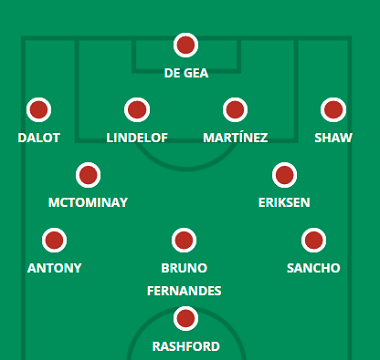
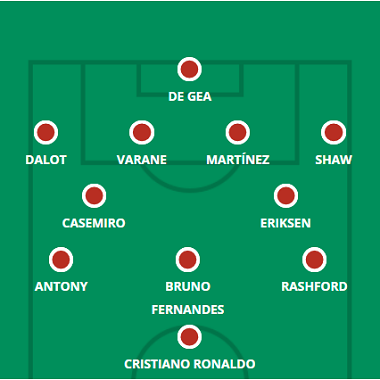
city, arsenal e united

Changed region(s): [[0.0, 0.0917, 1.0, 1.0], [0.4053, 0.6111, 0.55, 0.7639]]

diff --git a/city.html b/city.html
@@ -68,7 +68,7 @@
             <hgroup>
                 <h1> Provável Escalação</h1>
                 <h2 class="direita"> por FabioVascão </h2>
-                <h3 class="direita"> Atualizado em 07/Outubro/2022 </h3>
+                <h3 class="direita"> Atualizado em 14/Outubro/2022 </h3>
             </hgroup>
     
             <h2 class="time"> <img src="_fotos/_logos/logocity.png" />Manchester City</h2>
@@ -77,7 +77,7 @@
                     <img src="_fotos/_dinamicas/city.png" />
                 </figure>
             </aside>
-                <div class="escalacao"><h2 class="titulo">Ultimas Notícias</h2> <h4><p>Kalvin Phillips (lesão no ombro), Kyle Walker (lesão na virilha) e John Stones (lesão na coxa) ainda estão afastados, mas Rodri (lesão na perna) voltou à equipe da rodada da Liga dos Campeões no meio da semana, então pode fazer sua primeira aparição no City desde meados de setembro contra Southampton neste fim de semana. Pep Guardiola não está subestimando os Saints em dificuldades depois que eles dificultaram a vida do City em casa e fora em 2021/22, e isso foi ressaltado na seleção de quarta-feira para o jogo de Copenhague, como Kevin De Bruyne, Phil Foden e Manuel Akanji receberam respiros completos e Erling Haaland foi fisgado ao intervalo na goleada por 5-0 sobre os dinamarqueses. O técnico do City pode optar por segurar jogadores relativamente marginais como Sergio Gomez, Riyad Mahrez e Julian Alvarez para o jogo de volta na Dinamarca na próxima terça-feira, já que a qualificação para as oitavas de final da Liga dos Campeões está praticamente garantida, enquanto ele também pode querer acompanhar O impulso de Jack Grealish, dado que o ex-Villa às vezes difamado está em uma veia relativamente rica de forma no momento. Bernardo Silva e Ilkay Gundogan somaram quatro partidas consecutivas por clube e seleção nas últimas duas semanas, com o alemão durando 90 minutos no meio da semana e potencialmente abrindo caminho aqui se Rodri estiver apto o suficiente para ser titular. Na parte de trás, uma segunda partida em 72 horas para Aymeric Laporte parece improvável após sua recente longa dispensa, então serão dois de três de Akanji, Ruben Dias e Nathan Ake no meio-campo. Dada a capacidade de Ake de jogar como lateral-esquerdo e a possível implantação de Akanji como um lateral-direito híbrido / zagueiro-centro direito, no entanto, não seria uma surpresa ver todos os três rolhas obterem o aceno no Etihad.</p></h4><br>
+                <div class="escalacao"><h2 class="titulo">Ultimas Notícias</h2> <h4><p>Kalvin Phillips (lesão no ombro), Kyle Walker (lesão na virilha) e John Stones (lesão na coxa) perderão a viagem a Liverpool, com Stones ainda a 7-10 dias de distância e os outros dois ausentes por mais tempo. Não parece haver muitos dilemas para Pep Guardiola indo para esta partida contra os eternos rivais do City pelo título, com os quatro zagueiros que você vê aqui muito propensos a aparecer (Aymeric Laporte ainda está trabalhando de volta para o jogo completo), mas um pouco pouco de incerteza sobre se é Manuel Akanji ou Nathan Ake encarregado do dever de zagueiro em Merseyside. Com Phil Foden, Bernardo Silva e Erling Haaland todos "prontos" após os descansos do meio da semana, e Kevin De Bruyne e Rodri quase certezas de estarem envolvidos em um jogo dessa magnitude, a única questão que resta é quem se junta a eles na frente seis. Bernardo Silva pode ser mais amplo para permitir que Ilkay Gundogan entre no meio-campo, mas essa não é uma tática que Guardiola empregou contra os antigos inimigos do City em mais de três anos, então o em forma Jack Grealish pode ser o aceno no flanco esquerdo. É claro que Riyad Mahrez é outra opção, mas só foi titular em um dos últimos sete confrontos do campeonato com as tropas de Jurgen Klopp.</p></h4><br>
                     <h4><strong>Jogadores fora da próxima partida:</strong> Phillips, Stones e Walker</h4><br><br>
                     <h4><strong>Jogadores dúvidas:</strong> </h4>
                 </div> 

diff --git a/escalacoes.html b/escalacoes.html
@@ -68,7 +68,7 @@
             <hgroup>
                 <h1> Provável Escalação</h1>
                 <h2 class="direita"> por FabioVascão </h2>
-                <h3 class="direita"> Atualizado em 07/Outubro/2022 </h3>
+                <h3 class="direita"> Atualizado em 14/Outubro/2022 </h3>
             </hgroup>
     
             <h2 class="time"> <img src="_fotos/_logos/logoarsenal.png" />Arsenal</h2>
@@ -77,9 +77,9 @@
                     <img src="_fotos/_dinamicas/arsenal.png" />
                 </figure>
             </aside>
-                <div class="escalacao"><h2 class="titulo">Ultimas Notícias</h2> <h4><p>Emile Smith Rowe (lesão na virilha) e Mohamed Elneny (lesão na coxa) continuam de fora antes da visita ao Liverpool, mas o Arsenal não tem outras lesões confirmadas, sendo Cedric Soares o mais recente jogador a retornar à forma física esta semana. Mikel Arteta ofereceu o seu habitual golpe direto na sua pressão pré-jogo e foi pouco útil nas notícias da equipe, apenas dizendo que saberá mais sobre a situação da lesão do Arsenal após o último treino. Oleksandr Zinchenko pode ser uma preocupação, no entanto: exceto o par lesionado acima mencionado, ele foi o único nome de destaque que estava ausente da equipe da rodada na Liga Europa na quinta-feira. O jornalista do Arsenal, Charles Watts, também informou que o internacional ucraniano havia perdido o treino no início da semana e com Kieran Tierney substituído relativamente cedo na noite de quinta-feira, talvez com o objetivo de preservá-lo para este fim de semana, não se surpreenda ao ver o escocês em campo lateral-esquerdo contra o Liverpool. Além disso, podemos esperar ver o mesmo onze inicial que apareceu no derby do norte de Londres entrar em campo novamente neste fim de semana. Dez dos 11 titulares da Rodada 9 tiveram menos de 60 minutos ou descansaram juntos para a vitória no meio da semana sobre Bodo/Glimt (Gabriel Magalhães foi a exceção), com jogadores marginais como Fabio Vieira, Eddie Nketiah, Rob Holding e Takehiro Tomiyasu todos devorando em vez disso, os minutos da Liga Europa.</p></h4><br>
+                <div class="escalacao"><h2 class="titulo">Ultimas Notícias</h2> <h4><p>Emile Smith Rowe (lesão na virilha) e Mohamed Elneny (lesão na coxa) permanecem de fora antes da viagem a Leeds, enquanto mais notícias são aguardadas sobre Oleksandr Zinchenko depois que ele perdeu a vitória sobre o Liverpool com um problema na panturrilha, o internacional ucraniano não foi visto em treinamento desde então. Enquanto isso, Gabriel Jesus foi omitido da equipe da Liga Europa na noite de quinta-feira, embora as palavras de Mikel Arteta ("Sentimos que, com tudo o que ele passou nas últimas semanas, seria melhor ele ficar em casa") sugerir que não há questão de aptidão. Qualquer lesão não declarada ou uma recuperação de Zinchenko à parte, podemos esperar ver o mesmo onze inicial que jogou contra o Liverpool entrar em campo novamente neste fim de semana. Dez dos 11 titulares da 10 Rodada tiveram menos de 70 minutos ou descansaram completamente para a vitória no meio da semana sobre Bodo/Glimt (William Saliba foi a exceção), com jogadores marginais como Matt Turner, Albert Sambi Lokonga, Fabio Vieira, Eddie Nketiah, Reiss Nelson e Rob Holding, em vez disso, ficaram com as eliminatórias estendidas da Europa League. O fato de Kieran Tierney ter durado 90 minutos, enquanto Takehiro Tomiyasu foi suplente, também talvez sugira que este último mantenha seu lugar na lateral-esquerda no caso de Zinchenko ainda ficar de fora.</p></h4><br>
                     <h4><strong>Jogadores fora da próxima partida:</strong> Elneny e Smith-Rowe </h4><br><br>
-                    <h4><strong>Jogadores dúvidas:</strong> </h4>
+                    <h4><strong>Jogadores dúvidas:</strong> Zinchenko</h4>
                 </div> 
         </header>
         </article>

diff --git a/united.html b/united.html
@@ -68,7 +68,7 @@
             <hgroup>
                 <h1> Provável Escalação</h1>
                 <h2 class="direita"> por FabioVascão </h2>
-                <h3 class="direita"> Atualizado em 07/Outubro/2022 </h3>
+                <h3 class="direita"> Atualizado em 14/Outubro/2022 </h3>
             </hgroup>
     
             <h2 class="time"> <img src="_fotos/_logos/logounited.png" />Manchester United</h2>
@@ -77,9 +77,9 @@
                     <img src="_fotos/_dinamicas/united.png" />
                 </figure>
             </aside>
-                <div class="escalacao"><h2 class="titulo">Ultimas Notícias</h2> <h4><p>Harry Maguire (lesão na coxa), Aaron Wan-Bissaka (não especificado) e Donny van de Beek (lesão múscular) permanecem de fora antes da viagem a Goodison Park, enquanto Erik ten Hag disse na sexta-feira que estava esperançoso de que Raphael Varane (tornozelo) apto para enfrentar os Toffees, mas acrescentou que seria uma coisa "próxima". O técnico do United também disse que os Red Devils querem lidar com o retorno de Anthony Martial "com muito cuidado" e que "não podem forçá-lo", citando o primeiro retorno abortado do francês contra o Liverpool como uma razão para não apressar Martial de volta ao jogo. Assim, apesar dos três gols do atacante em duas partidas como substitutos nesta semana, pode ser novamente Marcus Rashford ou Cristiano Ronaldo liderando a linha em Merseyside, com Jadon Sancho fora de forma sendo o mais ameaçado se Rashford e Martial forem incluídos na lista do XI inicial. Casemiro está se aproximando de um primeiro jogo como titular na Premier League, mas não impressionou muito no Chipre na quinta-feira, quando Scott McTominay descansou, enquanto Luke Shaw espera tirar Tyrell Malacia do time depois que o último foi retirado no intervalo, para o segundo jogo em execução.</p></h4><br>
-                    <h4><strong>Jogadores fora da próxima partida:</strong> Maguire, Van de Beek, Wan-Bissaka e Williams</h4><br><br>
-                    <h4><strong>Jogadores dúvidas:</strong> Varane</h4>
+                <div class="escalacao"><h2 class="titulo">Ultimas Notícias</h2> <h4><p>Mais notícias são esperadas sobre a lesão nas costas que Anthony Martial sofreu na vitória de domingo sobre o Everton e, de fato, sobre as últimas condições de Harry Maguire (lesão na coxa), Aaron Wan-Bissaka (não especificado) e Donny van de Beek (lesão múscular), todos sentados fora da 10° Rodada e a vitória no meio da semana sobre Omonia Nicosia. Quanto aos definitivos, Scott McTominay está suspenso e Brandon Williams (não especificado) é um ausente de longo prazo. Erik ten Hag nomeou um time forte para a vitória da Europa League na quinta-feira, com Christian Eriksen e Luke Shaw os únicos titulares da 10ª rodada que foram colocados no banco contra o time cipriota. O reequipado Raphael Varane pode derrubar Victor Lindelof na defesa e Cristiano Ronaldo estará pronto para continuar no topo se Martial for descartado, mas, caso contrário, o time contra o Everton talvez seja o mesmo que vemos contra o Newcastle. A única dúvida é a programação de quinta-feira-domingo-quarta-sábado, com jogos contra Spurs e Chelsea a seguir. Os gostos de Jadon Sancho e Anthony Elanga poderiam potencialmente dar uma olhada, então, se um ou dois corpos forem preservados para esses encontros dos "seis grandes".</p></h4><br>
+                    <h4><strong>Jogadores fora da próxima partida:</strong> Maguire, Van de Beek, Wan-Bissaka, Williams e McTominay</h4><br><br>
+                    <h4><strong>Jogadores dúvidas:</strong> Martial</h4>
                 </div> 
         </header>
         </article>
